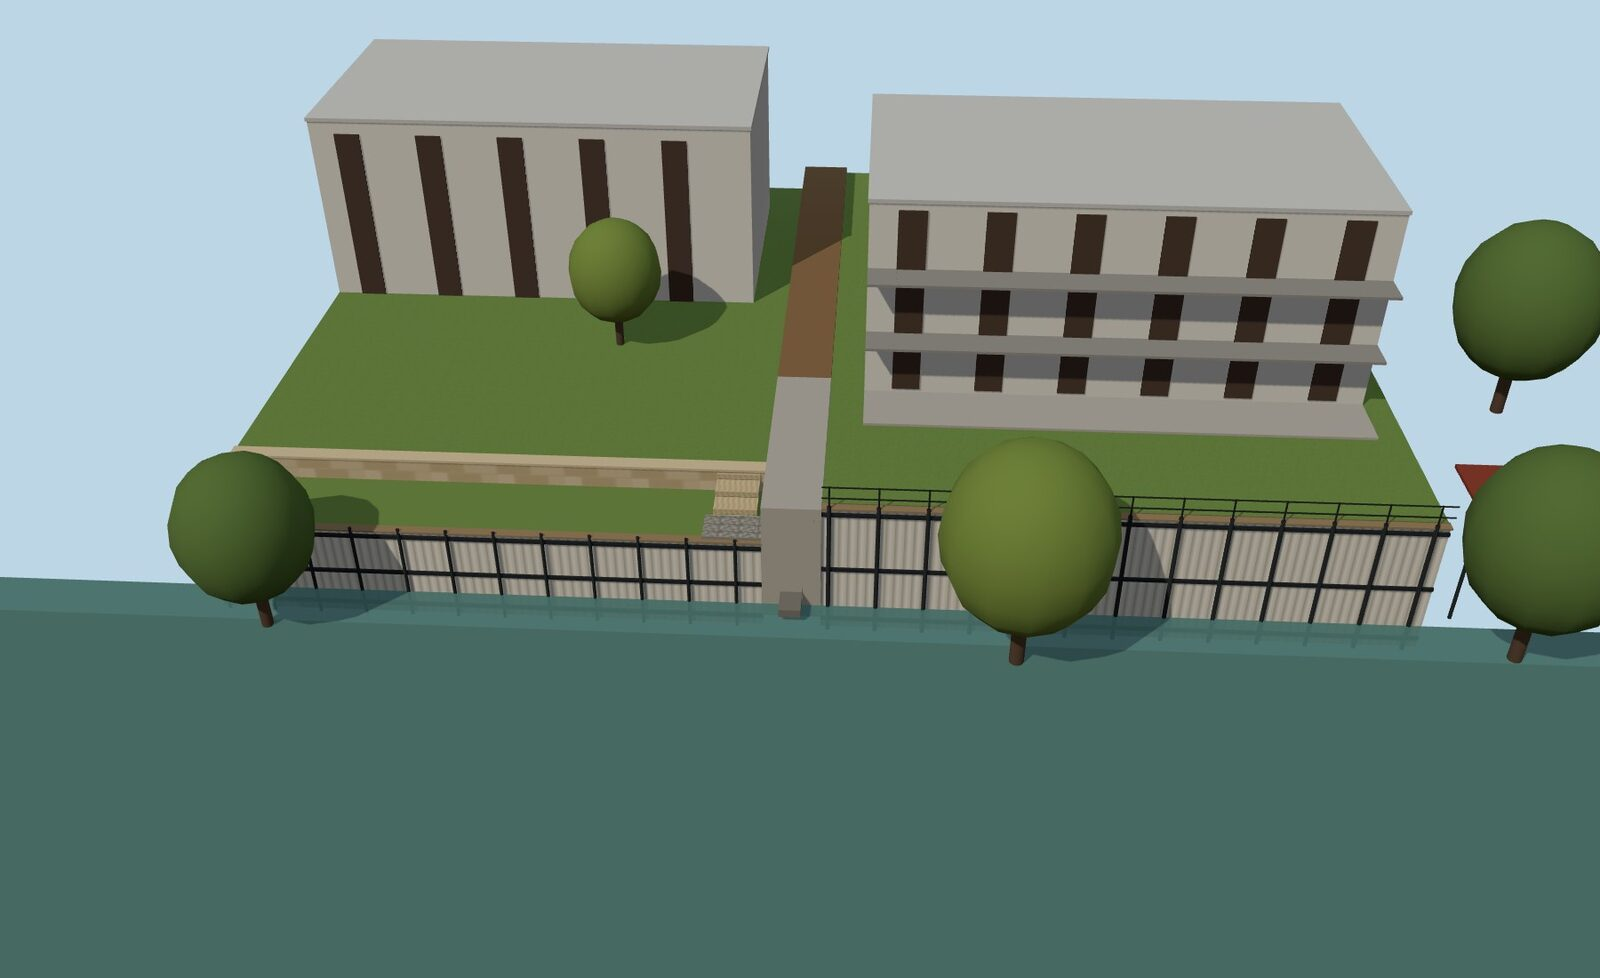
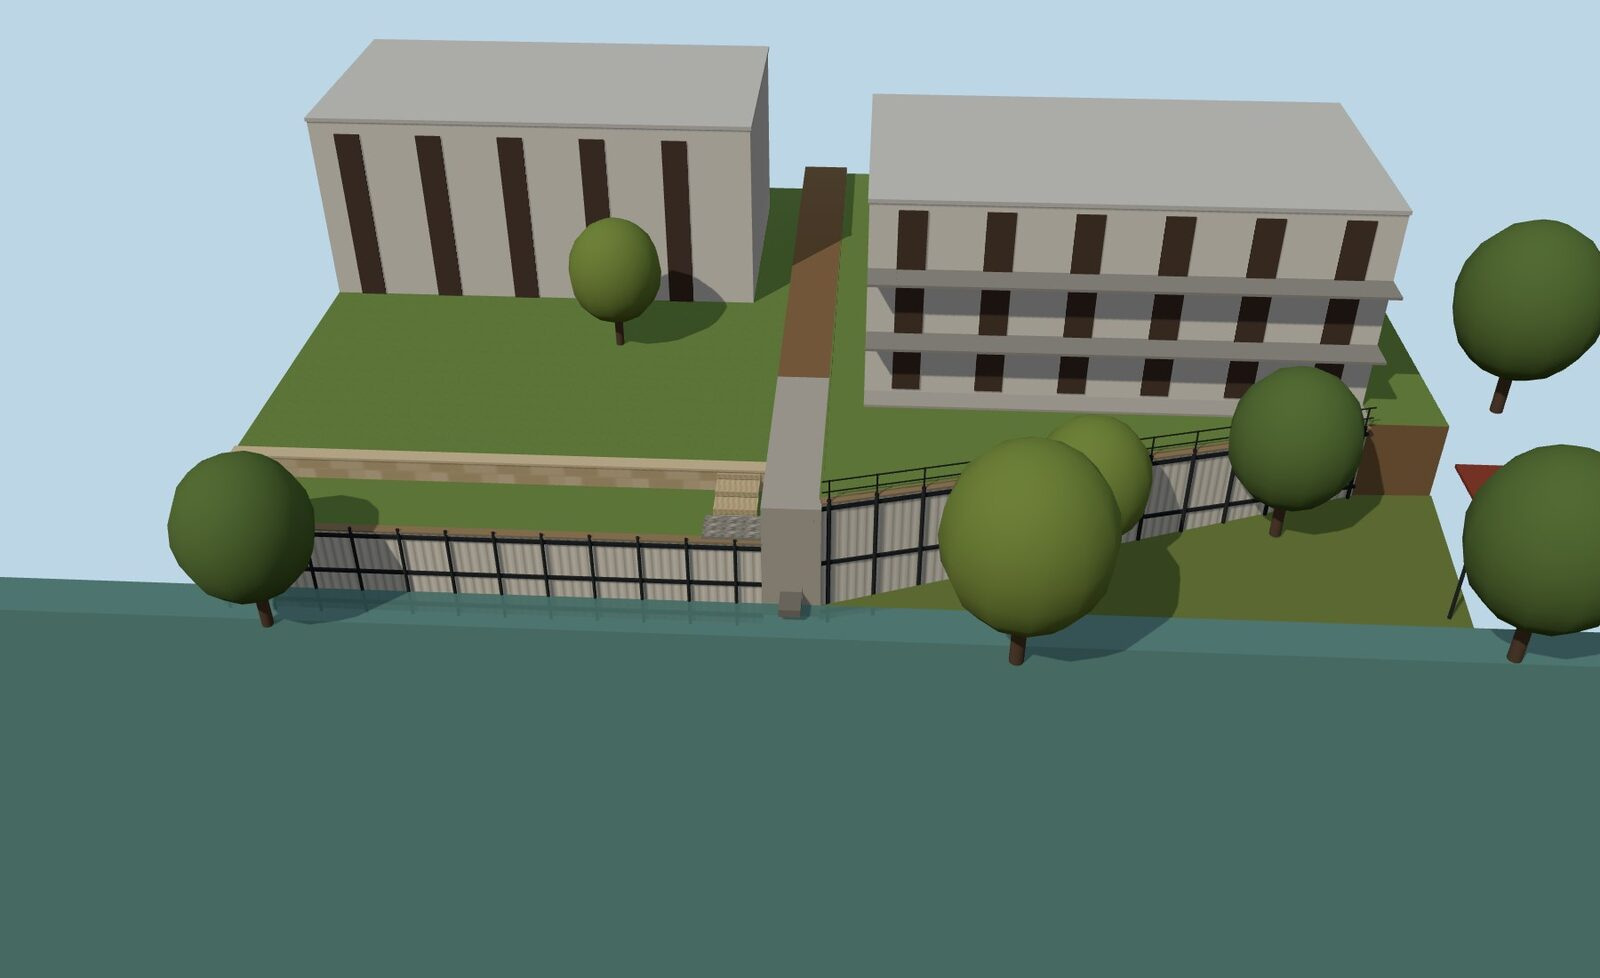
474 Seele St: wall alignments and renderings per Vladimir's markup
Claude-Session: https://claude.ai/code/session_01ACFyT5NYJkVngDarMTA6m9

Changed region(s): [[0.5, 0.3374, 0.9375, 0.6442], [0.4375, 0.5215, 0.4688, 0.5521]]

diff --git a/474-seele-st-r8m2qk/index.html b/474-seele-st-r8m2qk/index.html
@@ -381,9 +381,9 @@ footer b{color:var(--on-deep);font-family:var(--f-display);letter-spacing:.08em;
 <section id="design" class="band">
   <div class="wrap">
     <div class="sec-head"><span class="eyebrow">Renderings</span><h2 class="h2">What the finished bank will look like</h2>
-      <p class="lede">Two sections of C-loc seawall, tied into the concrete drainage structure so they form one continuous line. Phase 1 is the tall section beside Building B, out to the spiral staircase. Phase 2 is the lawn side, where the top of the bank is cut down and finished with a limestone block wall.</p></div>
+      <p class="lede">Two sections of C-loc seawall, tied into the concrete drainage structure so they form one continuous line. Phase 1 is the tall section beside Building B, running from the drainage structure up along the eroded bank toward the spiral staircase. Phase 2 runs along the lower bank on the lawn side, with a limestone block wall higher up where the top of the bank is cut down.</p></div>
     <figure class="rend"><img src="site-plan.jpg" alt="Drone photo marked with the Phase 1 and Phase 2 wall alignments" loading="lazy"></figure>
-    <p class="rend-cap">Approximate wall alignments on the November 2 drone photo. Final layout is field-verified before construction.</p>
+    <p class="rend-cap">Wall alignments per Lakeside's November 2 markup on the drone photo: Phase 1 in blue, Phase 2 C-loc in amber, and the Phase 2 limestone wall dashed. Final layout is field-verified before construction.</p>
     <div class="rgal">
       <figure><img src="render-phase1.jpg" alt="Rendering of the Phase 1 seawall beside Building B" loading="lazy"><figcaption>Phase 1 · beside Building B</figcaption></figure>
       <figure><img src="render-phase2.jpg" alt="Rendering of the Phase 2 seawall, terrace, limestone wall and walkway" loading="lazy"><figcaption>Phase 2 · lawn side</figcaption></figure>
@@ -495,7 +495,7 @@ const P = {
     {icon:"stair", t:"Water under control", d:"The wash channel becomes a rock filter of 12 in bull rock and septic gravel, and a stepped walkway gives access to the water."}
   ],
   keys:[
-    ["Phase 1 · 85 LF","From the drainage structure to the spiral staircase, beside Building B. Average height about 16 ft."],
+    ["Phase 1 · 85 LF","From the drainage structure up the eroded bank toward the spiral staircase, beside Building B. Average height about 16 ft."],
     ["Phase 2 · 80 LF","The lawn side of the drainage structure. Average height about 10 ft, with the top cut down about 3 ft."],
     ["One continuous line","Both walls tie into the concrete drainage structure, whose undermined footing is caught and held."],
     ["Limestone block wall","2 ft blocks, the first course buried, for about 3 ft exposed along the top of the Phase 2 cut."],
@@ -509,7 +509,7 @@ const P = {
     ["Earth anchors","Driven into the bank and tied to the whalers."]
   ],
   phases:[
-    {id:"p1", name:"Phase 1 · Building B side", sub:"About 85 LF, drainage structure to the spiral staircase", items:[
+    {id:"p1", name:"Phase 1 · Building B side", sub:"About 85 LF, drainage structure up the eroded bank toward the spiral staircase", items:[
       {name:"Mobilization and site protection", price:5800, desc:"Mobilize the excavator, pile-driving equipment and crew, lay out the wall line, install erosion and sediment controls and protect patios and walkways along the access route."},
       {name:"Equipment pads", price:5000, desc:"Clear the work line and cut level pads about 10 ft wide so piles can be driven from the bottom. When working from the top, equipment stays 6 to 7 ft back from the edge."},
       {name:"Tie-in at the drainage structure", price:3300, desc:"Clean off the top of the exposed concrete footing, set block to catch it, and start the new wall from that point."},
@@ -539,7 +539,7 @@ const P = {
   timeline:[
     {when:"Now", t:"Approve", d:"Check the phases you want and text Vladimir to approve. We prepare the construction contract."},
     {when:"Permits", t:"By the Association", d:"The Association obtains all permits and approvals. We provide our scope, wall dimensions and photos for the applications."},
-    {when:"20–25 working days", t:"Phase 1", d:"Pads, drainage structure tie-in, piles and C-loc from the drainage structure to the spiral staircase, whalers, anchors, cap, backfill and grade.", pay:"3 draws"},
+    {when:"20–25 working days", t:"Phase 1", d:"Pads, drainage structure tie-in, piles and C-loc from the drainage structure up the eroded bank toward the spiral staircase, whalers, anchors, cap, backfill and grade.", pay:"3 draws"},
     {when:"25–30 working days", t:"Phase 2", d:"Leveling and cut-down, piles and C-loc, limestone wall, rock filter channel, walkway and final grade.", pay:"3 draws"}
   ],
   why:{
